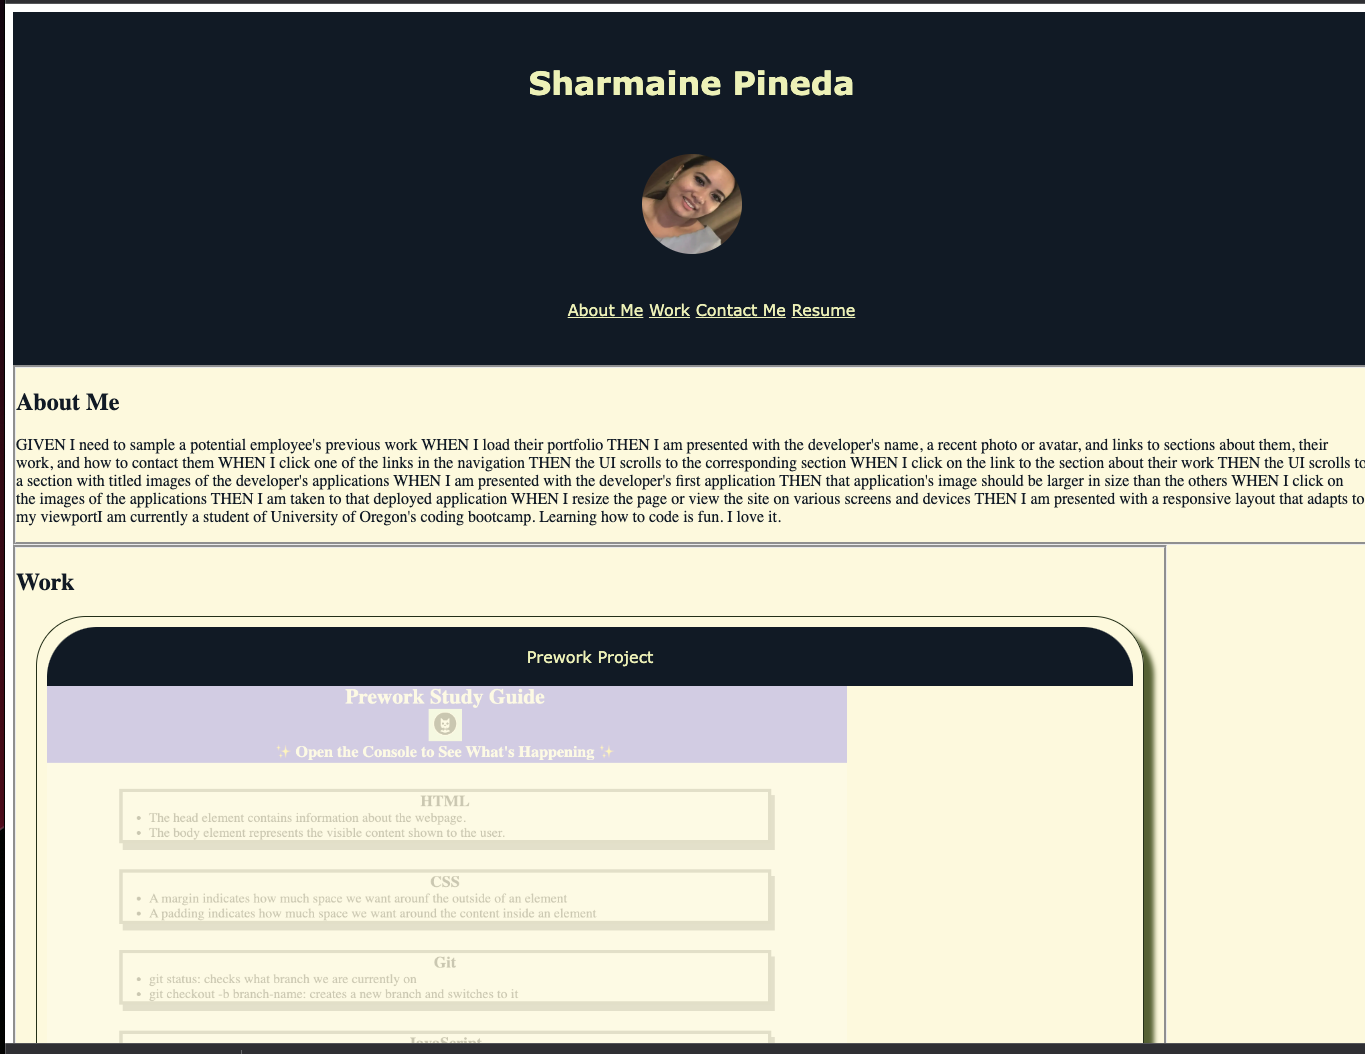
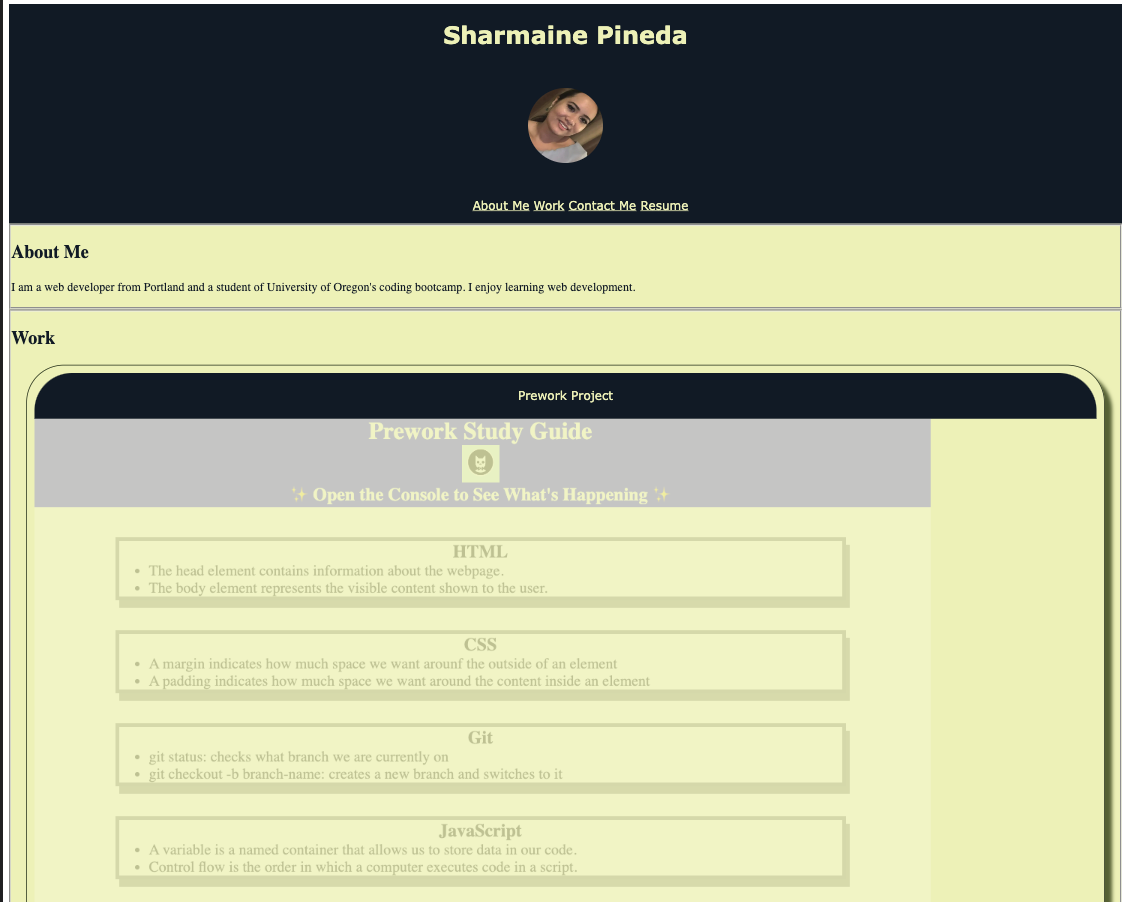
readme screenshot

diff --git a/README.md b/README.md
@@ -12,6 +12,7 @@ N/A
 
 This webpage will be useful for my career and future employment. 
 ![img](./assets/images/Portfolio%20page.png)
+![img](./assets/images/Portfolio%20page%202.png)
 
 ## Credits
 
